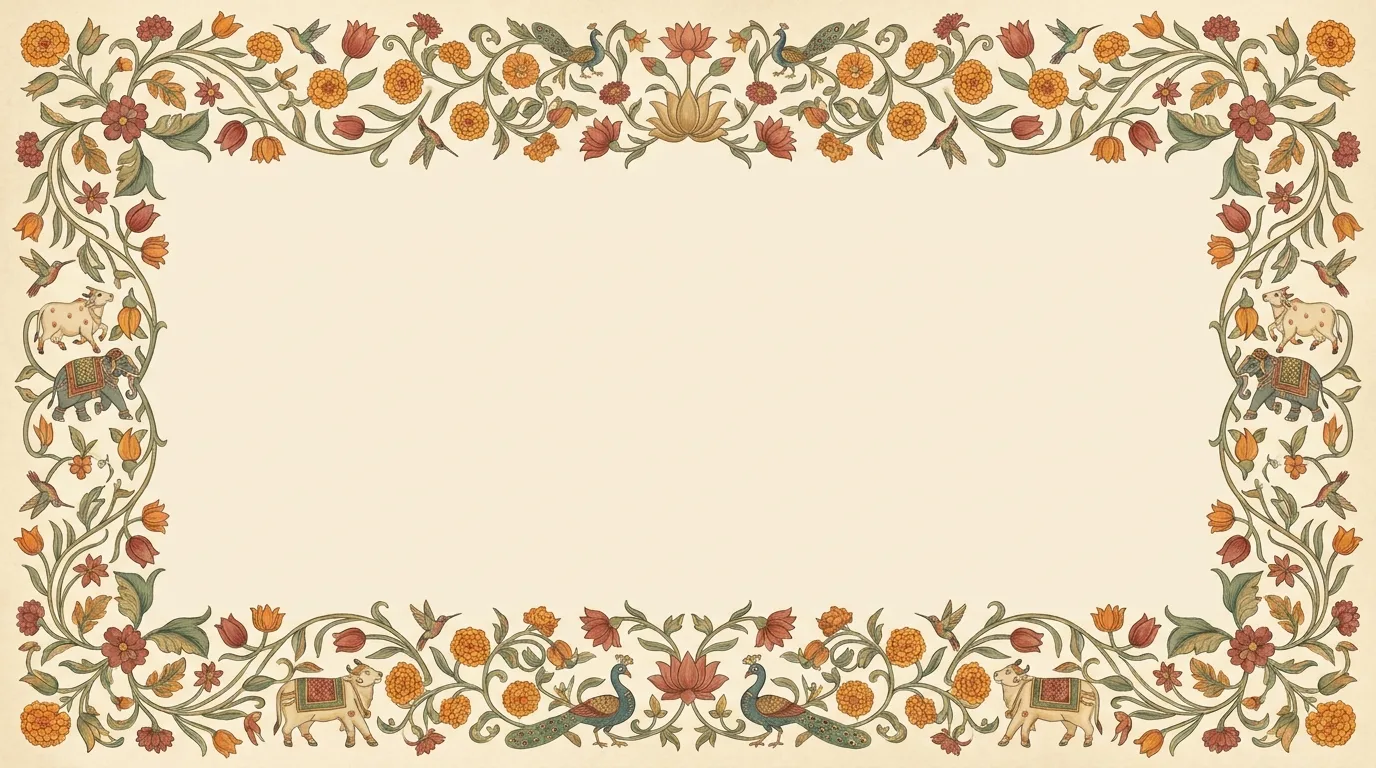
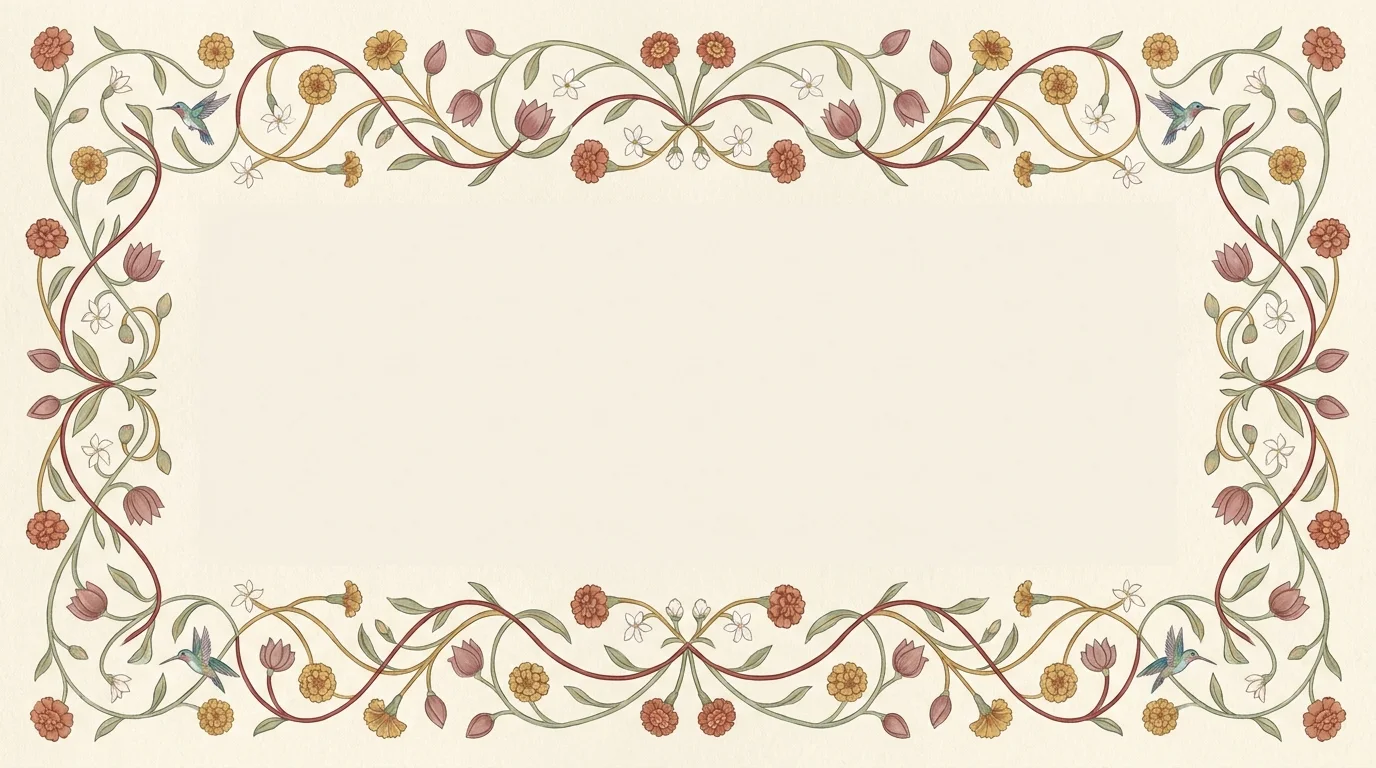
Reframe as bride's-parents invitation, lean copy, refined border, cursor/form fix
- Invitation now hosted by Atul & Rita Suri (hero + gate): "request the pleasure
  of your company at the wedding of their beloved daughter".
- Leaner copy: removed the repeated "will you be there / tell us you can come"
  asks; RSVP section is the single ask.
- More refined border art (delicate, airy Pichwai florals); tuned border-image slice.
- Companion-name fix: custom cursor now shows the native pointer over inputs/links
  (precise clicking) and hides the dot there; one guest field shows by default so
  adding guests is obvious. Verified typing works on desktop, mobile and live.

diff --git a/src/components/Hero.tsx b/src/components/Hero.tsx
@@ -2,7 +2,7 @@
 
 import { useEffect, useRef } from "react";
 import { gsap } from "gsap";
-import { couple, wedding, saveTheDate } from "@/lib/content";
+import { couple, wedding, saveTheDate, hosts } from "@/lib/content";
 import { onGateOpen } from "@/lib/gate";
 import { media } from "@/lib/media";
 import AmbientVideo from "./AmbientVideo";
@@ -82,11 +82,14 @@ export default function Hero() {
         <p className="font-script text-2xl text-red sm:text-3xl">{saveTheDate.invocation}</p>
       </div>
 
+      <p data-fade className="mt-8 font-display text-2xl text-ink sm:text-3xl">
+        {hosts.parents}
+      </p>
       <p
         data-fade
-        className="mt-8 max-w-md text-[13px] uppercase tracking-[0.25em] text-ink-soft sm:text-sm"
+        className="mt-2 max-w-md text-[12px] uppercase tracking-[0.22em] text-ink-soft sm:text-[13px]"
       >
-        {saveTheDate.intro}
+        {hosts.inviteLine}
       </p>
 
       <h1 className="mt-5 flex flex-col items-center leading-[0.92]">
@@ -121,8 +124,7 @@ export default function Hero() {
         {wedding.venueCity}
       </p>
       <p data-fade className="mt-5 max-w-md text-base leading-relaxed text-ink/80">
-        The full itinerary will follow very soon. For now, please save our dates and tell us you
-        can come.
+        The full itinerary will follow soon.
       </p>
 
       <a

diff --git a/src/components/Rsvp.tsx b/src/components/Rsvp.tsx
@@ -30,7 +30,9 @@ export default function Rsvp({ token, party }: { token: string | null; party: Pa
   const [email, setEmail] = useState("");
   const [phone, setPhone] = useState("");
   const [extras, setExtras] = useState<Extra[]>(
-    prelisted.slice(1).map((g) => ({ name: g.name, age_band: (g.age_band as Extra["age_band"]) ?? "adult" })),
+    prelisted.length > 1
+      ? prelisted.slice(1).map((g) => ({ name: g.name, age_band: (g.age_band as Extra["age_band"]) ?? "adult" }))
+      : [{ name: "", age_band: "adult" }], // one visible field by default so adding guests is obvious
   );
   const [meal, setMeal] = useState("No preference");
   const [notes, setNotes] = useState("");
@@ -207,7 +209,7 @@ export default function Rsvp({ token, party }: { token: string | null; party: Pa
                         onClick={addExtra}
                         className="mt-3 w-full rounded-xl border border-dashed border-gold/60 py-2.5 text-sm font-medium text-red transition-colors hover:bg-cream-deep/40"
                       >
-                        + Add a guest by name
+                        + Add another guest
                       </button>
                     )}
                   </div>

diff --git a/src/components/InvitationGate.tsx b/src/components/InvitationGate.tsx
@@ -1,7 +1,7 @@
 "use client";
 
 import { useEffect, useRef, useState } from "react";
-import { couple, wedding } from "@/lib/content";
+import { couple, wedding, hosts } from "@/lib/content";
 import { markGateOpen } from "@/lib/gate";
 import { media } from "@/lib/media";
 import { HexagonMonogram } from "./motifs";
@@ -93,8 +93,9 @@ export default function InvitationGate() {
           <p className="mt-2 font-script text-xl text-red">शुभ विवाह</p>
 
           <div className="my-7 flex flex-col items-center">
-            <span className="text-[11px] uppercase tracking-[0.3em] text-ink/80">
-              Together with our families
+            <span className="font-display text-lg text-ink sm:text-xl">{hosts.parents}</span>
+            <span className="mt-1 text-[10px] uppercase tracking-[0.28em] text-ink/75">
+              invite you to the wedding of their daughter
             </span>
             <h1 className="mt-3 font-display text-5xl text-red-deep sm:text-6xl">
               {couple.bride.first} <span className="font-script text-saffron-deep">&amp;</span>{" "}

diff --git a/src/lib/content.ts b/src/lib/content.ts
@@ -26,6 +26,12 @@ export const saveTheDate = {
   note: "A formal invitation will follow.",
 } as const;
 
+// The invitation is hosted by the bride's parents (this RSVP gathers their guest list).
+export const hosts = {
+  parents: "Atul & Rita Suri",
+  inviteLine: "request the pleasure of your company at the wedding of their beloved daughter",
+} as const;
+
 export const story = {
   title: "Two families, one celebration",
   hindi: "शुभ विवाह",
@@ -38,7 +44,7 @@ export const story = {
 export const comingSoon = {
   hindi: "जल्द ही",
   title: "We are still planning the fun parts",
-  body: "The events, the timings and all the little details are coming together beautifully. We will share the full itinerary with you soon. The one thing we would love to know now is whether you will be there.",
+  body: "The events, the timings and all the little details are coming together beautifully. We will share the full itinerary with you very soon.",
   badge: "Itinerary coming soon",
 } as const;
 

diff --git a/src/app/globals.css b/src/app/globals.css
@@ -104,16 +104,16 @@ h3,
   z-index: 40;
   pointer-events: none;
   border-style: solid;
-  border-width: 22px;
+  border-width: 20px;
   border-image-source: url("/border-mobile.webp");
-  border-image-slice: 100;
+  border-image-slice: 92;
   border-image-repeat: stretch;
 }
 @media (min-width: 768px) {
   .ornate-frame {
-    border-width: 50px;
+    border-width: 46px;
     border-image-source: url("/border-desktop.webp");
-    border-image-slice: 90;
+    border-image-slice: 78;
   }
 }
 
@@ -174,6 +174,18 @@ h3,
   .cursor-none,
   .cursor-none * {
     cursor: none !important;
+  }
+  /* keep a real, visible pointer on anything interactive so it's easy to click/type */
+  .cursor-none a,
+  .cursor-none button,
+  .cursor-none select,
+  .cursor-none label,
+  .cursor-none [role="button"] {
+    cursor: pointer !important;
+  }
+  .cursor-none input,
+  .cursor-none textarea {
+    cursor: text !important;
   }
 }
 .cursor-ring[data-hover="1"] {

diff --git a/src/components/Cursor.tsx b/src/components/Cursor.tsx
@@ -31,7 +31,12 @@ export default function Cursor() {
     const over = (e: MouseEvent) => {
       const t = e.target as HTMLElement;
       const interactive = !!t.closest("a, button, input, textarea, select, label, [role='button']");
-      if (ring.current) ring.current.dataset.hover = interactive ? "1" : "0";
+      // over interactive elements the native pointer shows, so hide the custom dot/ring
+      if (dot.current) dot.current.style.opacity = interactive ? "0" : "1";
+      if (ring.current) {
+        ring.current.style.opacity = interactive ? "0" : "1";
+        ring.current.dataset.hover = interactive ? "1" : "0";
+      }
     };
     const loop = () => {
       rx += (x - rx) * 0.2;
